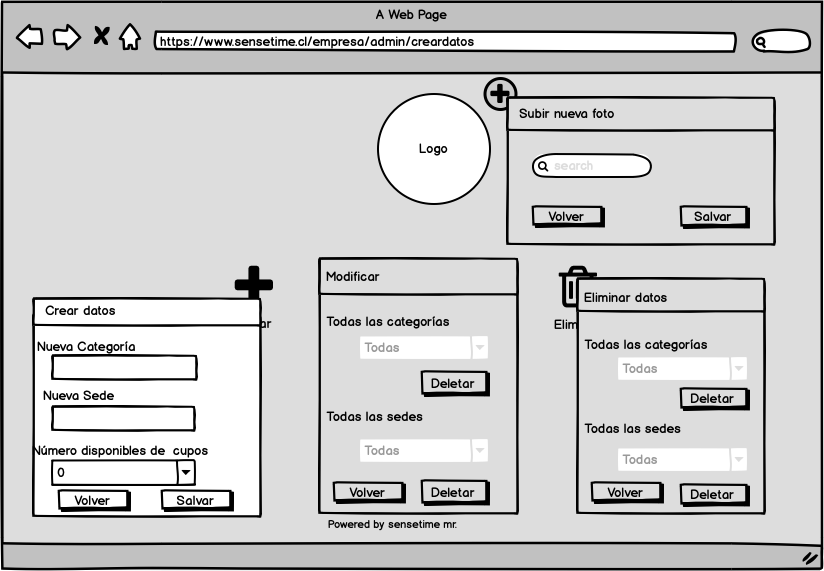
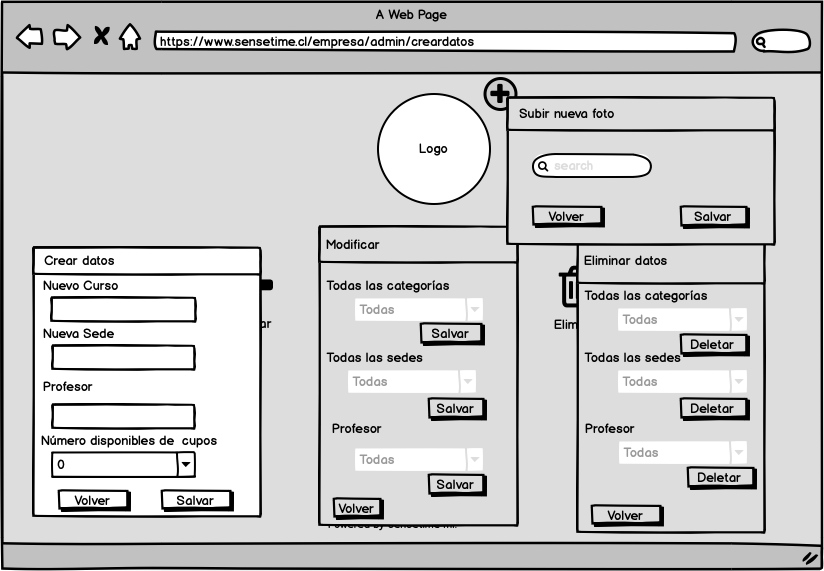
modales modificados

diff --git a/src/components/ModalEliminar.js b/src/components/ModalEliminar.js
@@ -20,68 +20,63 @@ const Eliminar = props => {
                         <div className="form-group card-body">
                             <label className="mt-1">Todos los cursos</label>
                             <select className="form-control">
-                                <option className="" value="">Cupos</option>
-                                <option className="" value="">0</option>
-                                <option className="" value="">1</option>
-                                <option className="" value="">2</option>
-                                <option className="" value="">3</option>
-                                <option className="" value="">4</option>
-                                <option className="" value="">5</option>
-                                <option className="" value="">6</option>
-                                <option className="" value="">7</option>
-                                <option className="" value="">8</option>
-                                <option className="" value="">10</option>
-                                <option className="" value="">11</option>
-                                <option className="" value="">12</option>
-                                <option className="" value="">13</option>
-                                <option className="" value="">14</option>
-                                <option className="" value="">15</option>
-                                <option className="" value="">16</option>
-                                <option className="" value="">17</option>
-                                <option className="" value="">18</option>
-                                <option className="" value="">19</option>
-                                <option className="" value="">20</option>
-                                <option className="" value="">21</option>
-                                <option className="" value="">22</option>
-                                <option className="" value="">23</option>
-                                <option className="" value="">24</option>
-                                <option className="" value="">25</option>
+                                <option className="" value="">Cursos</option>
+                                <option className="" value="">Yoga I</option>
+                                <option className="" value="">Yoga II</option>
+                                <option className="" value="">Yoga III</option>
+                                <option className="" value="">Pilates</option>
+                                <option className="" value="">Hot Pilates</option>
+                                <option className="" value="">Bikram</option>
+                                <option className="" value="">Masaje Relax</option>
+                                <option className="" value="">Baile</option>
                             </select>
+                            <div>
+                                <div className="modal-footer d-flex justify-content-end">
+                                    <div className="d-flex justify-content-start">
+                                        <button type="button" className="btn btn-primary" data-dismiss="modal">Eliminar</button>
+                                    </div>
+                                </div>
+                            </div>
                             <label className="mt-1">Todas las sedes</label>
                             <select className="form-control">
-                                <option className="" value="">Cupos</option>
-                                <option className="" value="">0</option>
-                                <option className="" value="">1</option>
-                                <option className="" value="">2</option>
-                                <option className="" value="">3</option>
-                                <option className="" value="">4</option>
-                                <option className="" value="">5</option>
-                                <option className="" value="">6</option>
-                                <option className="" value="">7</option>
-                                <option className="" value="">8</option>
-                                <option className="" value="">10</option>
-                                <option className="" value="">11</option>
-                                <option className="" value="">12</option>
-                                <option className="" value="">13</option>
-                                <option className="" value="">14</option>
-                                <option className="" value="">15</option>
-                                <option className="" value="">16</option>
-                                <option className="" value="">17</option>
-                                <option className="" value="">18</option>
-                                <option className="" value="">19</option>
-                                <option className="" value="">20</option>
-                                <option className="" value="">21</option>
-                                <option className="" value="">22</option>
-                                <option className="" value="">23</option>
-                                <option className="" value="">24</option>
-                                <option className="" value="">25</option>
+                                <option className="" value="">Sedes</option>
+                                <option className="" value="">Providencia</option>
+                                <option className="" value="">Las Condes</option>
+                                <option className="" value="">Vitacura</option>
+                                <option className="" value="">Nuñoa</option>
+                                <option className="" value="">La Florida</option>
                             </select>
+                            <div>
+                                <div className="modal-footer d-flex justify-content-end">
+                                    <div className="d-flex justify-content-start">
+                                        <button type="button" className="btn btn-primary" data-dismiss="modal">Eliminar</button>
+                                    </div>
+                                </div>
+                            </div>
+                            <label className="mt-1">Profesores</label>
+                            <select className="form-control">
+                                <option className="" value="">Profesores</option>
+                                <option className="" value="">Juan</option>
+                                <option className="" value="">Roberta</option>
+                                <option className="" value="">Andrea V.</option>
+                                <option className="" value="">Guillherme</option>
+                                <option className="" value="">Rosario</option>
+                                <option className="" value="">Emiliana</option>
+                                <option className="" value="">Gustavo R.</option>
+                            </select>
+                            <div>
+                                <div className="modal-footer d-flex justify-content-end">
+                                    <div className="d-flex justify-content-start">
+                                        <button type="button" className="btn btn-primary" data-dismiss="modal">Eliminar</button>
+                                    </div>
+                                </div>
+                            </div>
                         </div>
                     </div>
                     <div className="modal-footer d-flex justify-content-end">
                         <div className="d-flex justify-content-start">
                             <button type="button" className="btn btn-dark mr-1" data-dismiss="modal">Volver</button>
-                            <button type="button" className="btn btn-primary" data-dismiss="modal">Salvar</button>
+                            <button type="button" className="btn btn-primary" data-dismiss="modal">Deletar Todos</button>
                         </div>
                     </div>
                 </div>

diff --git a/src/components/Modalmodificar.js b/src/components/Modalmodificar.js
@@ -20,68 +20,63 @@ const Modificar = props => {
                         <div className="form-group card-body">
                             <label className="mt-1">Todos los cursos</label>
                             <select className="form-control">
-                                <option className="" value="">Cupos</option>
-                                <option className="" value="">0</option>
-                                <option className="" value="">1</option>
-                                <option className="" value="">2</option>
-                                <option className="" value="">3</option>
-                                <option className="" value="">4</option>
-                                <option className="" value="">5</option>
-                                <option className="" value="">6</option>
-                                <option className="" value="">7</option>
-                                <option className="" value="">8</option>
-                                <option className="" value="">10</option>
-                                <option className="" value="">11</option>
-                                <option className="" value="">12</option>
-                                <option className="" value="">13</option>
-                                <option className="" value="">14</option>
-                                <option className="" value="">15</option>
-                                <option className="" value="">16</option>
-                                <option className="" value="">17</option>
-                                <option className="" value="">18</option>
-                                <option className="" value="">19</option>
-                                <option className="" value="">20</option>
-                                <option className="" value="">21</option>
-                                <option className="" value="">22</option>
-                                <option className="" value="">23</option>
-                                <option className="" value="">24</option>
-                                <option className="" value="">25</option>
+                                <option className="" value="">Cursos</option>
+                                <option className="" value="">Yoga I</option>
+                                <option className="" value="">Yoga II</option>
+                                <option className="" value="">Yoga III</option>
+                                <option className="" value="">Pilates</option>
+                                <option className="" value="">Hot Pilates</option>
+                                <option className="" value="">Bikram</option>
+                                <option className="" value="">Masaje Relax</option>
+                                <option className="" value="">Baile</option>
                             </select>
+                            <div>
+                                <div className="modal-footer d-flex justify-content-end">
+                                    <div className="d-flex justify-content-start">
+                                        <button type="button" className="btn btn-primary" data-dismiss="modal">Salvar</button>
+                                    </div>
+                                </div>
+                            </div>
                             <label className="mt-1">Todas las sedes</label>
                             <select className="form-control">
-                                <option className="" value="">Cupos</option>
-                                <option className="" value="">0</option>
-                                <option className="" value="">1</option>
-                                <option className="" value="">2</option>
-                                <option className="" value="">3</option>
-                                <option className="" value="">4</option>
-                                <option className="" value="">5</option>
-                                <option className="" value="">6</option>
-                                <option className="" value="">7</option>
-                                <option className="" value="">8</option>
-                                <option className="" value="">10</option>
-                                <option className="" value="">11</option>
-                                <option className="" value="">12</option>
-                                <option className="" value="">13</option>
-                                <option className="" value="">14</option>
-                                <option className="" value="">15</option>
-                                <option className="" value="">16</option>
-                                <option className="" value="">17</option>
-                                <option className="" value="">18</option>
-                                <option className="" value="">19</option>
-                                <option className="" value="">20</option>
-                                <option className="" value="">21</option>
-                                <option className="" value="">22</option>
-                                <option className="" value="">23</option>
-                                <option className="" value="">24</option>
-                                <option className="" value="">25</option>
+                                <option className="" value="">Sedes</option>
+                                <option className="" value="">Providencia</option>
+                                <option className="" value="">Las Condes</option>
+                                <option className="" value="">Vitacura</option>
+                                <option className="" value="">Nuñoa</option>
+                                <option className="" value="">La Florida</option>
                             </select>
+                            <div>
+                                <div className="modal-footer d-flex justify-content-end">
+                                    <div className="d-flex justify-content-start">
+                                        <button type="button" className="btn btn-primary" data-dismiss="modal">Salvar</button>
+                                    </div>
+                                </div>
+                            </div>
+                            <label className="mt-1">Profesores</label>
+                            <select className="form-control">
+                                <option className="" value="">Profesores</option>
+                                <option className="" value="">Juan</option>
+                                <option className="" value="">Roberta</option>
+                                <option className="" value="">Andrea V.</option>
+                                <option className="" value="">Guillherme</option>
+                                <option className="" value="">Rosario</option>
+                                <option className="" value="">Emiliana</option>
+                                <option className="" value="">Gustavo R.</option>
+                            </select>
+                            <div>
+                                <div className="modal-footer d-flex justify-content-end">
+                                    <div className="d-flex justify-content-start">
+                                        <button type="button" className="btn btn-primary" data-dismiss="modal">Salvar</button>
+                                    </div>
+                                </div>
+                            </div>
                         </div>
                     </div>
                     <div className="modal-footer d-flex justify-content-end">
                         <div className="d-flex justify-content-start">
                             <button type="button" className="btn btn-dark mr-1" data-dismiss="modal">Volver</button>
-                            <button type="button" className="btn btn-primary" data-dismiss="modal">Salvar</button>
+                            <button type="button" className="btn btn-primary" data-dismiss="modal">Salvar Todo</button>
                         </div>
                     </div>
                 </div>

diff --git a/src/views/Calendaradmin.js b/src/views/Calendaradmin.js
@@ -27,7 +27,7 @@ const Calendaradmin = props => {
                         <option className="" value="">Yoga</option>
                         <option className="" value="">Pilates</option>
                     </select>
-                    <select className="form-control">
+                    <select className="form-control mr-2">
                         <option className="" value="">Cupos</option>
                         <option className="" value="">0</option>
                         <option className="" value="">1</option>
@@ -55,8 +55,17 @@ const Calendaradmin = props => {
                         <option className="" value="">24</option>
                         <option className="" value="">25</option>
                     </select>
+                    <select className="form-control">
+                        <option className="" value="">Profesores</option>
+                        <option className="" value="">Roberto</option>
+                        <option className="" value="">Julia</option>
+                        <option className="" value="">Juan</option>
+                        <option className="" value="">Pablo</option>
+                        <option className="" value="">Francisca V.</option>
+                        <option className="" value="">Andrea B.</option>
+                    </select>
                 </div>
-                <div className="col-md-4 d-flex justify-content-end">
+                <div className="col-md-4 d-flex justify-content-right">
                     <Link to="/settingsadmin"><i class="fas fa-cogs fa-2x text-muted"></i></Link>
                 </div>
             </div>

diff --git a/src/components/ModalPhoto.js b/src/components/ModalPhoto.js
@@ -11,14 +11,14 @@ const SubirFoto = props => {
             <div class="modal-dialog" role="document">
                 <div class="modal-content">
                     <div class="modal-header">
-                        <h5 class="modal-title" id="modalModificar">Modificar Datos</h5>
+                        <h5 class="modal-title" id="modalModificar">Subir nueva foto</h5>
                         <button type="button" class="close" data-dismiss="modal" aria-label="Close">
                             <span aria-hidden="true">&times;</span>
                         </button>
                     </div>
                     <div>
                         <div className="form-group card-body">
-                            <label className="mt-1">Todos los cursos</label>
+                            <label className="mt-1">Seleccione una nueva imagen</label>
                         </div>
                     </div>
                     <div className="modal-footer d-flex justify-content-end">

diff --git a/src/components/ModalCreardatos.js b/src/components/ModalCreardatos.js
@@ -22,6 +22,8 @@ const Creardatos = props => {
                         <input type="text" className="form-control" />
                         <label className="mt-2">Nueva Sede</label>
                         <input type="text" className="form-control" />
+                        <label className="mt-1">Profesor</label>
+                        <input type="text" className="form-control" />
                         <label className="mt-2">Número disponible de cupos</label>
                         <select className="form-control">
                             <option className="" value="">Cupos</option>
